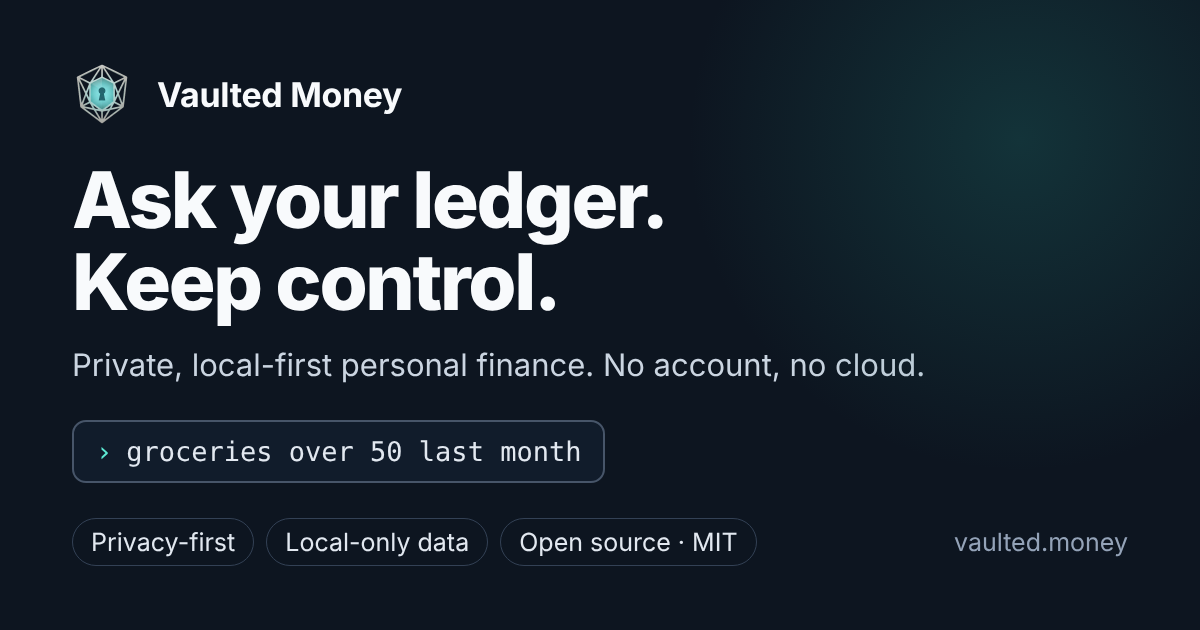
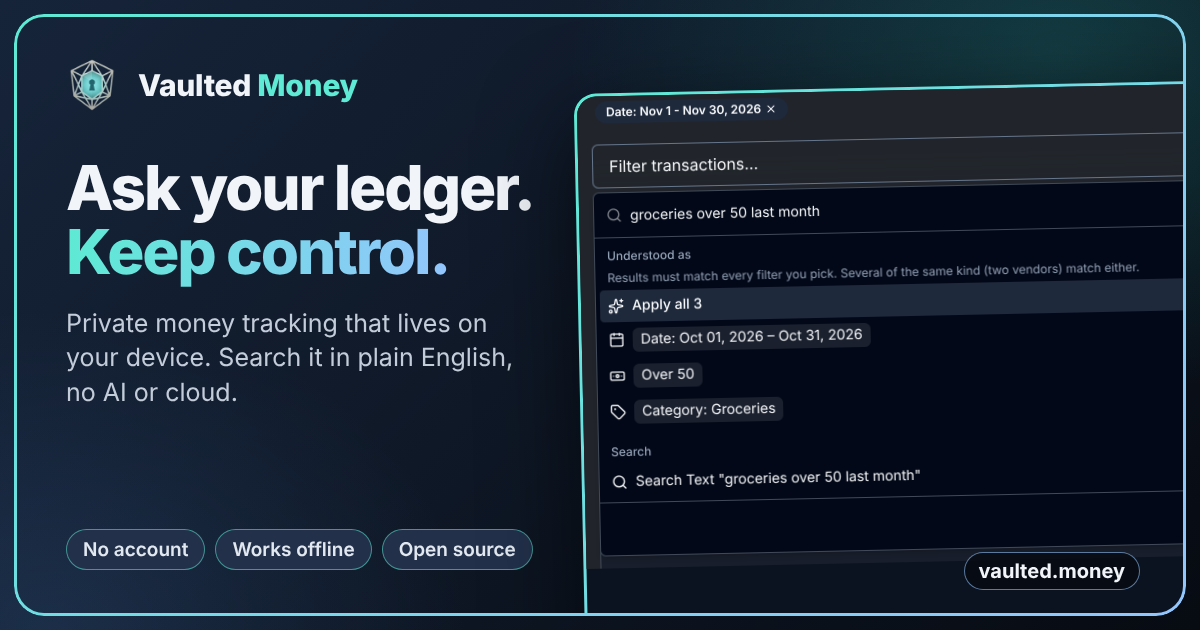
Replace the share image with a product shot in light and dark
The card now shows the real app interpreting a plain-English search, and the
README picks the light or dark version to match the reader's theme.

Claude-Session: https://claude.ai/code/session_012DD2j4YcdhArHg91JsFoz4

diff --git a/marketing/LAUNCH_KIT.md b/marketing/LAUNCH_KIT.md
@@ -72,7 +72,7 @@ r/LocalFirst.
 
 The description, website link and topics are already set. Two things are left:
 
-- **Social preview image:** Settings → General → Social preview → upload `public/og-image.png`. Without it, a shared repository link shows GitHub's generic card.
+- **Social preview image:** Settings → General → Social preview → upload `public/og-image.png`. Without it, a shared repository link shows GitHub's generic card. The same picture is what appears when someone shares vaulted.money in a chat or on social media. Light and dark versions for the README are in `documentation/readme/hero-*.png`.
 - **Topics worth adding:** `mcp`, `offline-first`, `budgeting`, `capacitor`.
 
 ## Search engines

diff --git a/README.md b/README.md
@@ -1,5 +1,10 @@
 <p align="center">
-  <a href="https://vaulted.money/ledgers?demo=1"><img src="public/og-image.png" alt="Vaulted Money: Ask your ledger. Keep control. Private, local-first personal finance." width="820" /></a>
+  <a href="https://vaulted.money/ledgers?demo=1">
+    <picture>
+      <source media="(prefers-color-scheme: dark)" srcset="documentation/readme/hero-dark.png">
+      <img src="documentation/readme/hero-light.png" alt="Vaulted Money: Ask your ledger. Keep control. The app turning the sentence 'groceries over 50 last month' into date, amount and category filters." width="820" />
+    </picture>
+  </a>
 </p>
 
 <h1 align="center">Vaulted Money</h1>
